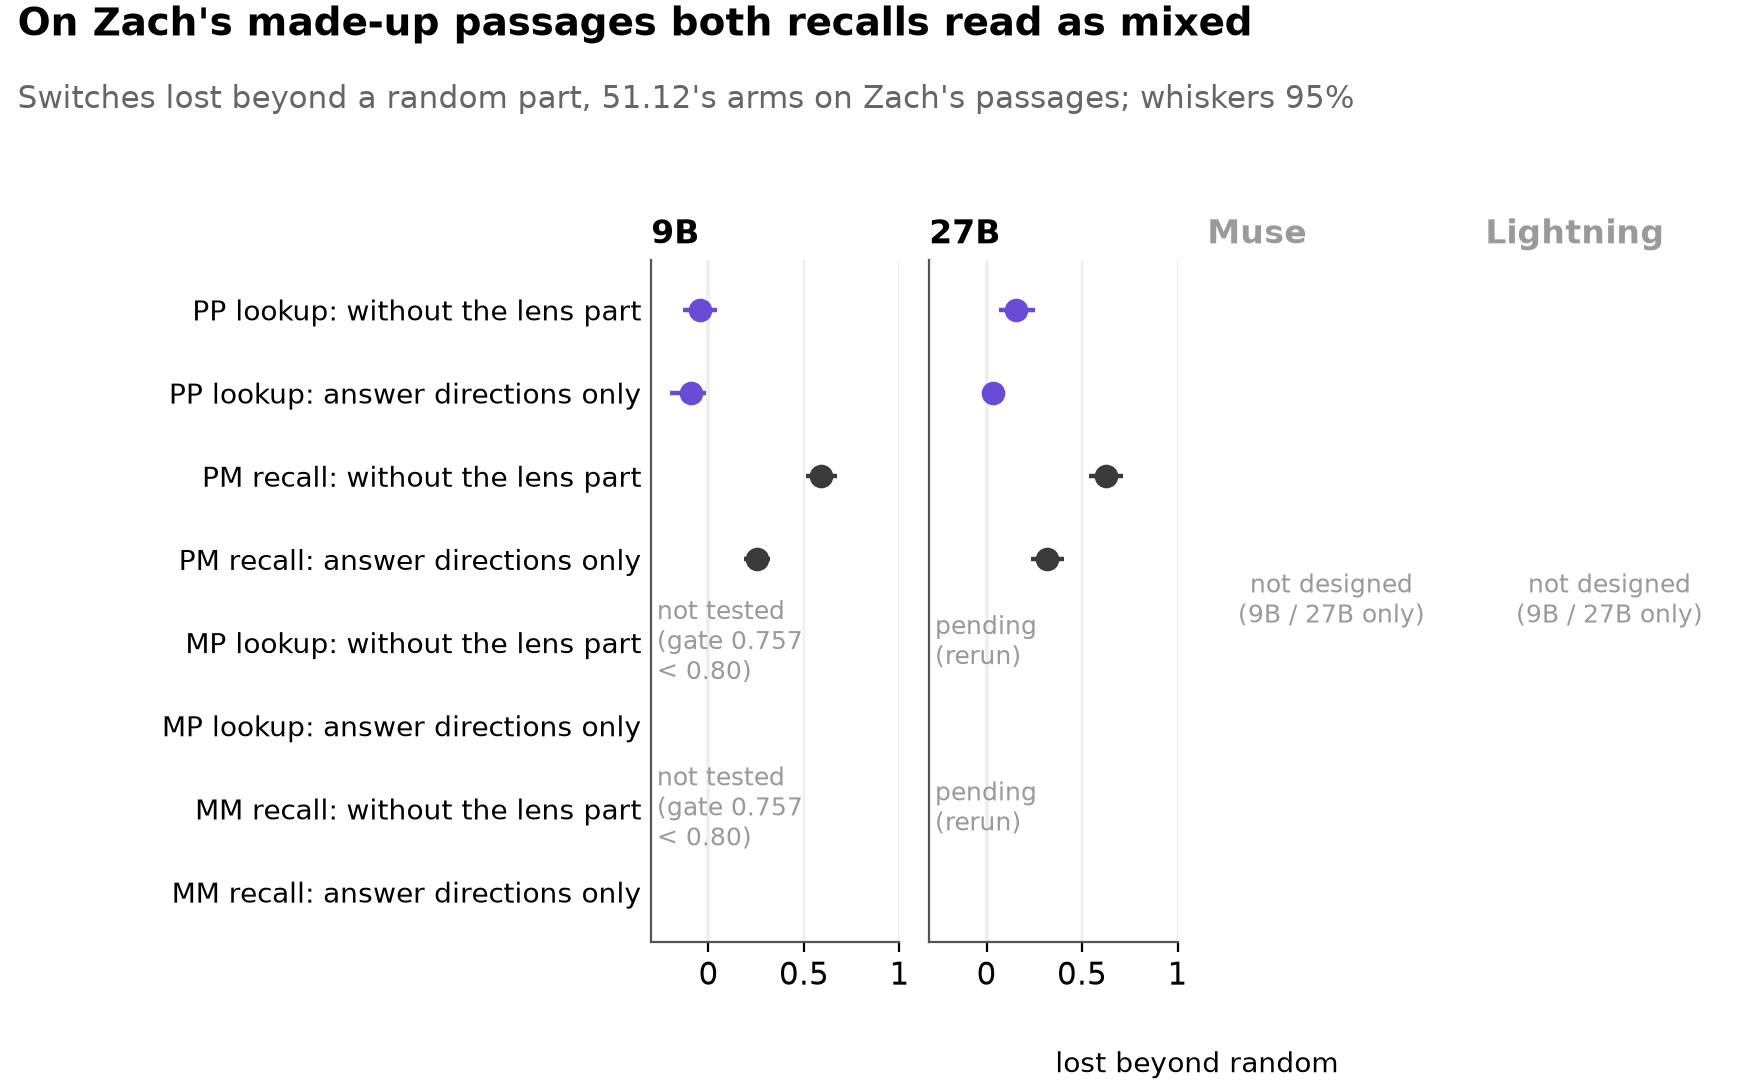
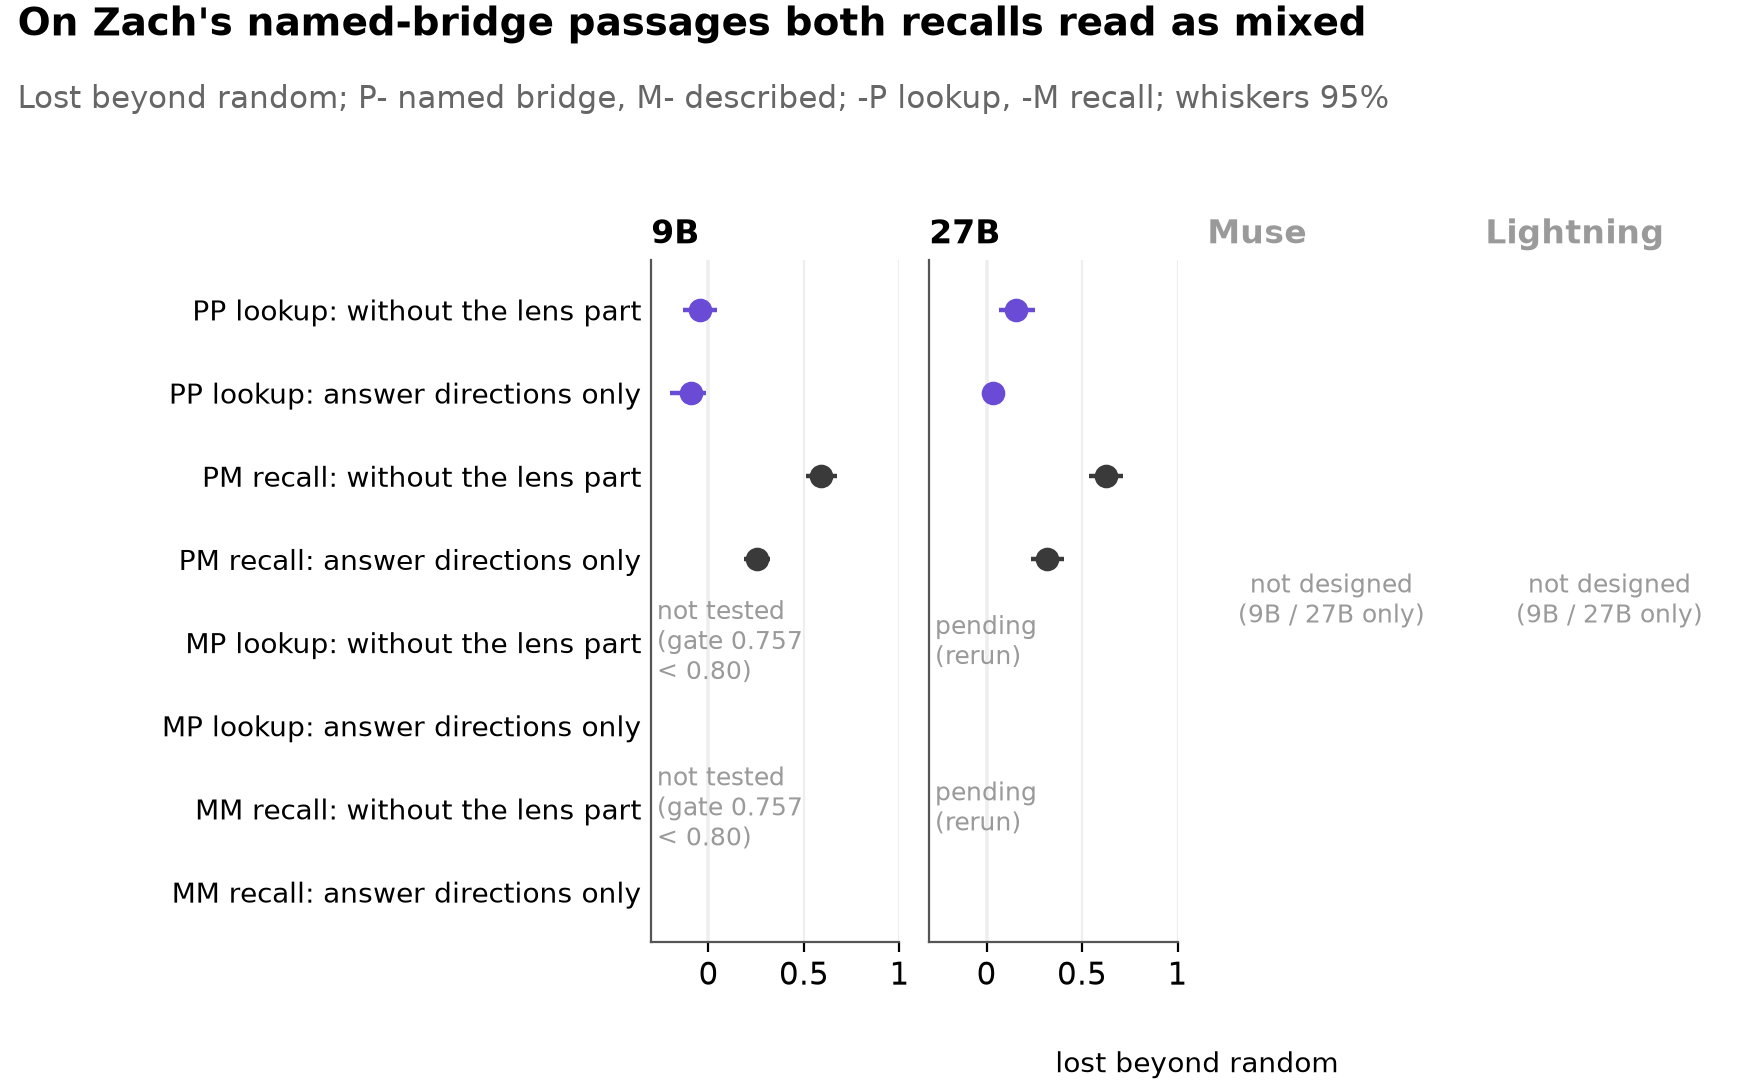
Ledger: 53.1b wording fixed (coordinator): MP / MM are Zach's described-bridge cells (first letter how the bridge enters, second where the answer comes from; the made-up fact stated in every cell), not passages without the fact; question, data, row labels, caption, gate note and the figure's title /

Changed region(s): [[0.0, 0.0, 0.7812, 0.1245]]

diff --git a/scripts/ledger_figures.py b/scripts/ledger_figures.py
@@ -1528,9 +1528,10 @@ JSUITE_NOTES = {("z2p", "qwen3.5-9b"): "not tested\n(gate 0.757\n< 0.80)", ("z2p
 
 
 def jsuite(plt) -> str:
-    """53.1b on four slots: per model and cell of Zach's passages (PP the lookup, PM the recall, on the P passages;
-    MP and MM on the M passages), 51.12's arms: switches lost without the lens part beyond random, and without the
-    answer directions only beyond random; a cell not tested or pending as a grey note; Muse and Lightning grey."""
+    """53.1b on four slots: per model and cell of Zach's made-up-fact passages (PP the lookup and PM the recall on the
+    passages that name the bridge; MP the lookup and MM the recall on the passages that describe it), 51.12's arms:
+    switches lost without the lens part beyond random, and without the answer directions only beyond random; a cell not
+    tested or pending as a grey note; Muse and Lightning grey."""
     v = load(JSUITE)
     by = {(m["set"], m["target"]): m for m in v["models"] if m["status"] == "tested"}
     cells = (("z1p", "lookup", "PP lookup", LOOKUP), ("z1p", "recall", "PM recall", INK),
@@ -1547,8 +1548,8 @@ def jsuite(plt) -> str:
                 else:
                     rows[t].append((lab, m["readers"][rd]["extra"][arm], col, False))
     absent = {"muse-glimmer-30b": "not designed\n(9B / 27B only)", LT: "not designed\n(9B / 27B only)"}
-    return four_panels(plt, "ledger_jsuite", "On Zach's made-up passages both recalls read as mixed",
-                       "Switches lost beyond a random part, 51.12's arms on Zach's passages; whiskers 95%",
+    return four_panels(plt, "ledger_jsuite", "On Zach's named-bridge passages both recalls read as mixed",
+                       "Lost beyond random; P- named bridge, M- described; -P lookup, -M recall; whiskers 95%",
                        rows, absent, "lost beyond random", xlim=(-0.3, 1.0))
 
 

diff --git a/docs/depth/EXPERIMENTS.md b/docs/depth/EXPERIMENTS.md
@@ -1523,17 +1523,17 @@ New in this ledger:
 
 Dan's batch 53 (29 Oct 09:30, standing rules 09:50; jobs/c3/batch53.yaml): every rule fixed before any run, no predictions, UNVERIFIED; each result gets a card and a figure here, and nothing goes into the README until the next day's verification. In Dan's priority order (53.1b first); the rules are quoted from the brief.
 
-### On Zach's made-up-fact passages, what do the answer control's arms say for each question-and-passage cell? (53.1b, the 9B and the 27B opened 29 Oct ~11:00; the 27B's two passage-without-the-fact cells to come) <a id="b53-1b"></a>
+### On Zach's made-up-fact passages, does the answer control read the same with the bridge named and described? (53.1b, the 9B and the 27B opened 29 Oct ~11:00; the 27B's two described-bridge cells to come) <a id="b53-1b"></a>
 
 `ledger only` *Used in: batch 53, exploration day; nothing into the README before the next day's verification.*
 
-- **Question.** On Zach's passages with made-up facts, what do 51.12's arms (is it the bridge item or its answer that moves through the lens?) say for each cell of his design: the lookup's and the recall's question on the passage that states the fact (PP, PM) and on the one that leaves it out (MP, MM)?
+- **Question.** On Zach's passages with made-up facts, what do 51.12's arms (is it the bridge item or its answer that moves through the lens?) say when the passage names the bridge (PP: the lookup reads the made-up value the passage states; PM: the recall answers from memory) and when it describes the bridge instead (MP: the lookup; MM: the recall)? In his codes the first letter is how the bridge enters, the second where the answer comes from; the made-up fact is stated in every cell, so PP against MP is a named against a described bridge, for the lookup.
 - **Why we asked.** Dan's priority 1 of 29 Oct 09:50 ("jsuite PP vs MP, 51.12's arms + readout"): on his passages the cells exist already, no new scenes.
-- **Data.** Zach's passages with made-up facts (Z1-P's items), 200 per cell where tested; the 9B at L12, the 27B at L32.
+- **Data.** Zach's passages with made-up facts: the named bridge (Z1-P's items) and the described bridge (Z2's design, the change at the description's last token); 200 per cell where tested; the 9B at L12, the 27B at L32.
 - **Method.** 51.12's arms per cell: the readout check first (is the answer word in the lens's top 50 at the bridge word?), then the change without the lens part, without the lens part but keeping the answer's directions, and without the answer directions only, each beyond a random part.
 
-![On Zach's made-up passages both recalls read as mixed](../../figures/ledger/ledger_jsuite.png)
-*Per cell, switches lost beyond a random part without the lens part and without the answer directions only; whiskers 95%. Models: 9B (its passage-without-the-fact cells not tested: gate), 27B (those cells pending, rerun); Muse and Lightning grey (not designed: 9B / 27B only).*
+![On Zach's named-bridge passages both recalls read as mixed](../../figures/ledger/ledger_jsuite.png)
+*Per cell, switches lost beyond a random part without the lens part and without the answer directions only; whiskers 95%. Models: 9B (its described-bridge cells not tested: gate), 27B (its described-bridge cells pending, rerun); Muse and Lightning grey (not designed: 9B / 27B only).*
 
 - **Rule, fixed in advance.** 51.12's rule per cell: "the lens effect is the entity": arm 2 keeps >= 0.7 of arm 1's extra loss and arm 3 costs <= 0.10 beyond random; "the lens effect is the answer": arm 2 falls to <= 0.3 of arm 1 and arm 3 alone costs >= 0.5 of arm 1; else mixed; the readout check first ("the answer word is not read at the bridge word" if its lens rank is above 50 on >= 90% of items). (results/x51_answer/x53_jsuite-20261029T092753Z/verdict.md; no prediction)
 
@@ -1541,16 +1541,16 @@ Dan's batch 53 (29 Oct 09:30, standing rules 09:50; jobs/c3/batch53.yaml): every
 
   | | 9B | 27B | Muse | Lightning |
   |---|---|---|---|---|
-  | PP (lookup, fact stated): lost without the lens part, beyond random | -0.05 [-0.13, 0.05]<!-- src: results/x51_answer/x53_jsuite-20261029T092753Z/verdict.md \| z1p :: qwen3.5-9b :: lookup :: -0.05 [-0.13, 0.05] --> | 0.16 [0.06, 0.26]<!-- src: results/x51_answer/x53_jsuite-20261029T092753Z/verdict.md \| z1p :: qwen3.6-27b :: lookup :: 0.16 [0.06, 0.26] --> | not designed | not designed |
+  | PP (lookup, named bridge): lost without the lens part, beyond random | -0.05 [-0.13, 0.05]<!-- src: results/x51_answer/x53_jsuite-20261029T092753Z/verdict.md \| z1p :: qwen3.5-9b :: lookup :: -0.05 [-0.13, 0.05] --> | 0.16 [0.06, 0.26]<!-- src: results/x51_answer/x53_jsuite-20261029T092753Z/verdict.md \| z1p :: qwen3.6-27b :: lookup :: 0.16 [0.06, 0.26] --> | not designed | not designed |
   | PP: the label | **can't tell<!-- src: results/x51_answer/x53_jsuite-20261029T092753Z/verdict.md \| z1p :: qwen3.5-9b :: lookup :: can't tell -->** | **the answer word is not read at the bridge word<!-- src: results/x51_answer/x53_jsuite-20261029T092753Z/verdict.md \| z1p :: qwen3.6-27b :: lookup :: the answer word is not read at the bridge word -->** | | |
-  | PM (recall, fact stated): lost without the lens part, beyond random | 0.59 [0.51, 0.67]<!-- src: results/x51_answer/x53_jsuite-20261029T092753Z/verdict.md \| z1p :: qwen3.5-9b :: recall :: 0.59 [0.51, 0.67] --> | 0.63 [0.54, 0.72]<!-- src: results/x51_answer/x53_jsuite-20261029T092753Z/verdict.md \| z1p :: qwen3.6-27b :: recall :: 0.63 [0.54, 0.72] --> | | |
+  | PM (recall, named bridge): lost without the lens part, beyond random | 0.59 [0.51, 0.67]<!-- src: results/x51_answer/x53_jsuite-20261029T092753Z/verdict.md \| z1p :: qwen3.5-9b :: recall :: 0.59 [0.51, 0.67] --> | 0.63 [0.54, 0.72]<!-- src: results/x51_answer/x53_jsuite-20261029T092753Z/verdict.md \| z1p :: qwen3.6-27b :: recall :: 0.63 [0.54, 0.72] --> | | |
   | PM: the label | **mixed<!-- src: results/x51_answer/x53_jsuite-20261029T092753Z/verdict.md \| z1p :: qwen3.5-9b :: recall :: mixed -->** | **mixed<!-- src: results/x51_answer/x53_jsuite-20261029T092753Z/verdict.md \| z1p :: qwen3.6-27b :: recall :: mixed -->** | | |
-  | MP and MM (the passage without the fact) | not tested (gate 0.757<!-- src: results/x50_zach/qwen35_9b_x53_z2p/gate.json \| "K": 0.757396449704142 :: 0.757 --> < 0.80) | pending (rerun) | | |
+  | MP and MM (described bridge) | not tested (gate 0.757<!-- src: results/x50_zach/qwen35_9b_x53_z2p/gate.json \| "K": 0.757396449704142 :: 0.757 --> < 0.80) | pending (rerun) | | |
 
 - **Read.**
-  - With the fact stated, both recalls read as mixed: keeping the answer's directions keeps only part of the recall's loss, and the answer directions alone cost some of it; the 9B's lookup loses nothing beyond random (cannot tell), and the 27B's answer word is not read at the bridge word.
+  - On the named-bridge passages both recalls read as mixed: keeping the answer's directions keeps only part of the recall's loss, and the answer directions alone cost some of it; the 9B's lookup loses nothing beyond random (cannot tell), and the 27B's answer word is not read at the bridge word.
 - **Caveats.**
-  - The 9B's passages without the fact missed the gate (its lookup right on 0.757 of 169 cases), so its MP and MM cells are not tested and have no numbers; the 27B's are rerunning after a disk-full restart.
+  - The 9B's described-bridge passages missed the gate (lookup right on 0.757 of 169 cases), so its MP and MM cells are not tested and have no numbers; the 27B's are rerunning after a disk-full restart.
   - Exploratory (batch 53): no prediction; UNVERIFIED.
 
 ### 53.1 (running) <a id="b53-1"></a>
